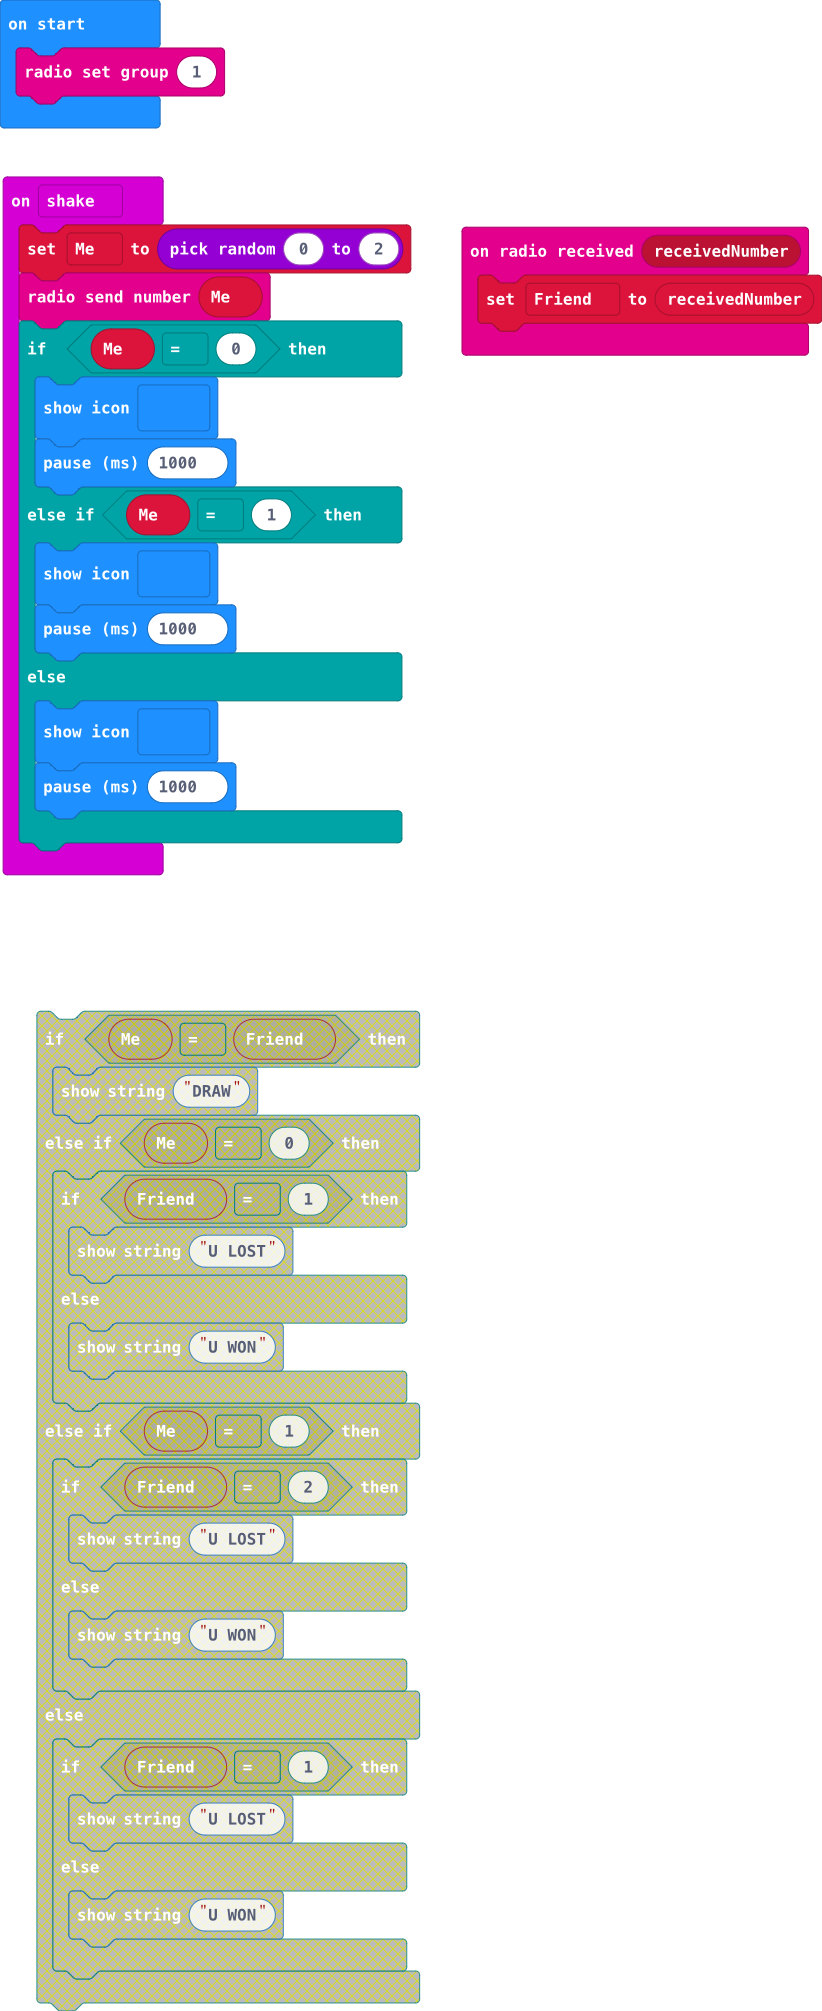
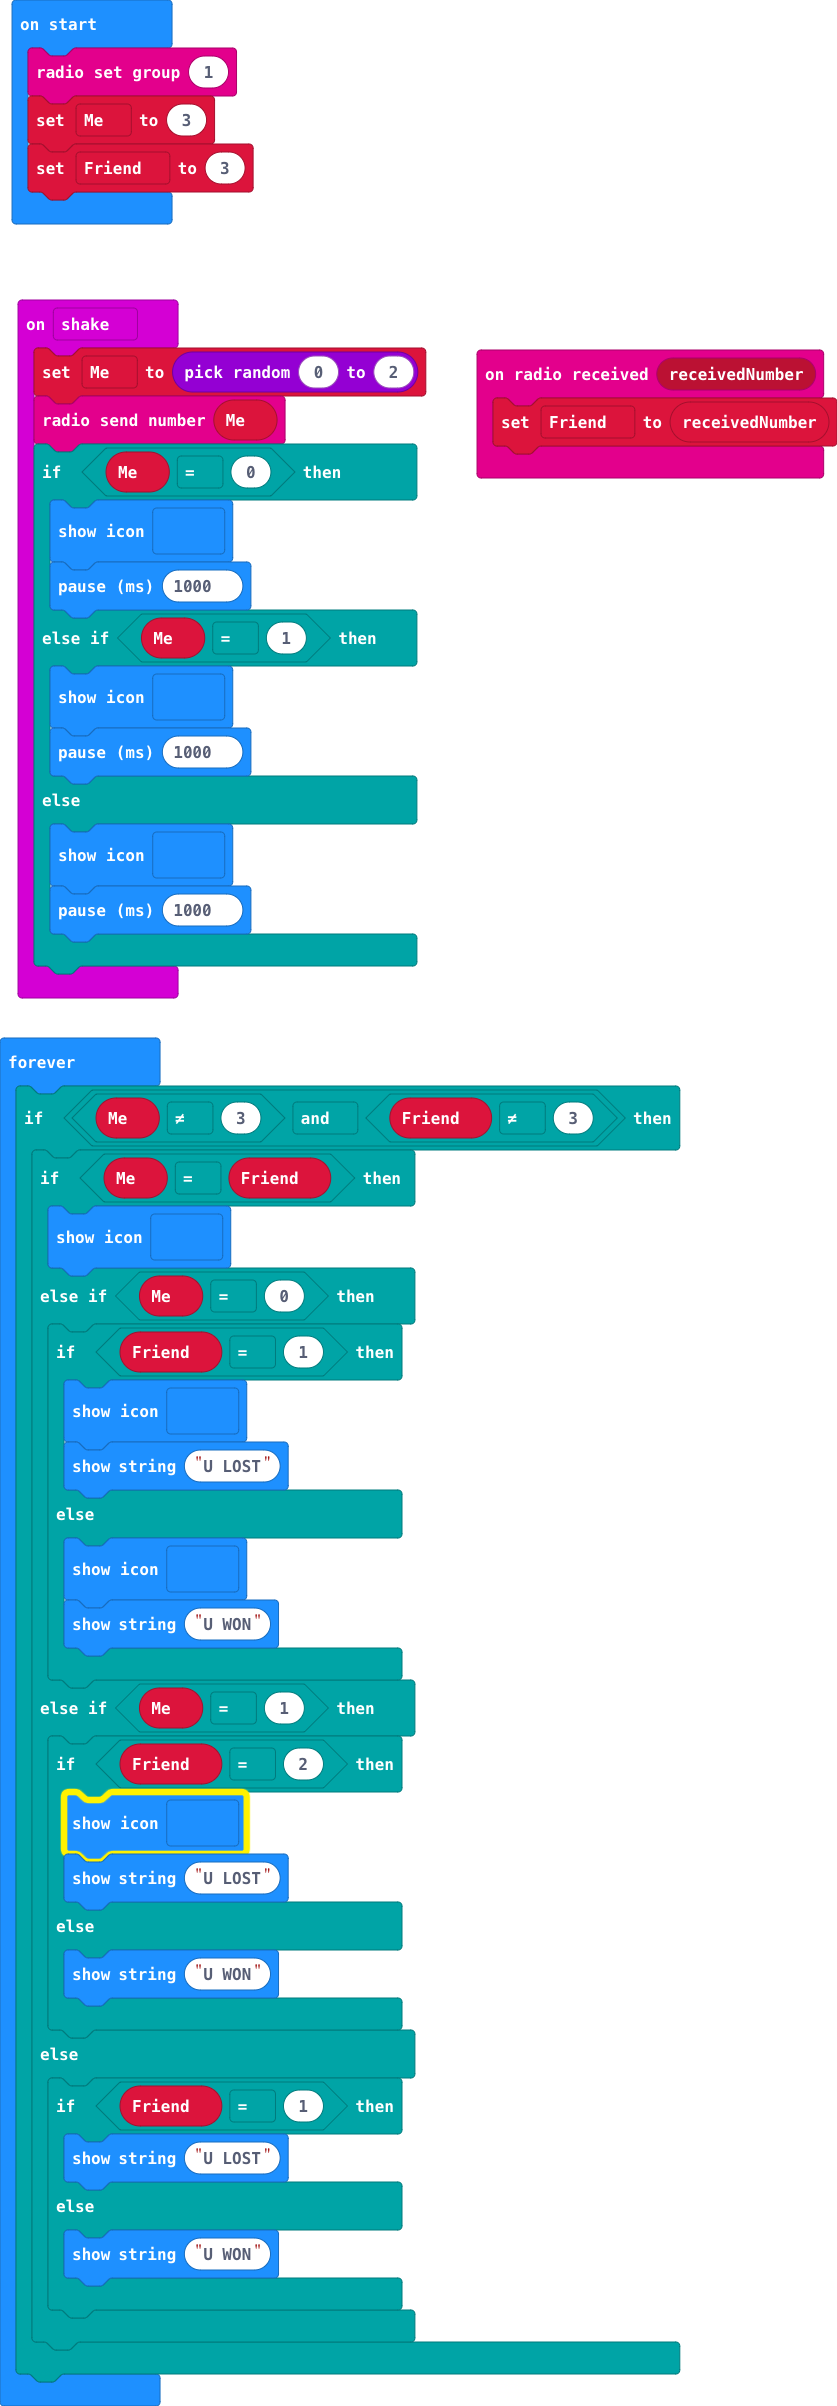
Update main.blocks, main.ts

diff --git a/main.ts b/main.ts
@@ -15,6 +15,36 @@ input.onGesture(Gesture.Shake, function () {
         basic.pause(1000)
     }
 })
-let Me = 0
 let Friend = 0
+let Me = 0
 radio.setGroup(1)
+Me = 3
+Friend = 3
+basic.forever(function () {
+    if (Me != 3 && Friend != 3) {
+        if (Me == Friend) {
+            basic.showIcon(IconNames.Asleep)
+        } else if (Me == 0) {
+            if (Friend == 1) {
+                basic.showIcon(IconNames.Sad)
+                basic.showString("U LOST")
+            } else {
+                basic.showIcon(IconNames.Happy)
+                basic.showString("U WON")
+            }
+        } else if (Me == 1) {
+            if (Friend == 2) {
+                basic.showIcon(IconNames.Sad)
+                basic.showString("U LOST")
+            } else {
+                basic.showString("U WON")
+            }
+        } else {
+            if (Friend == 1) {
+                basic.showString("U LOST")
+            } else {
+                basic.showString("U WON")
+            }
+        }
+    }
+})
